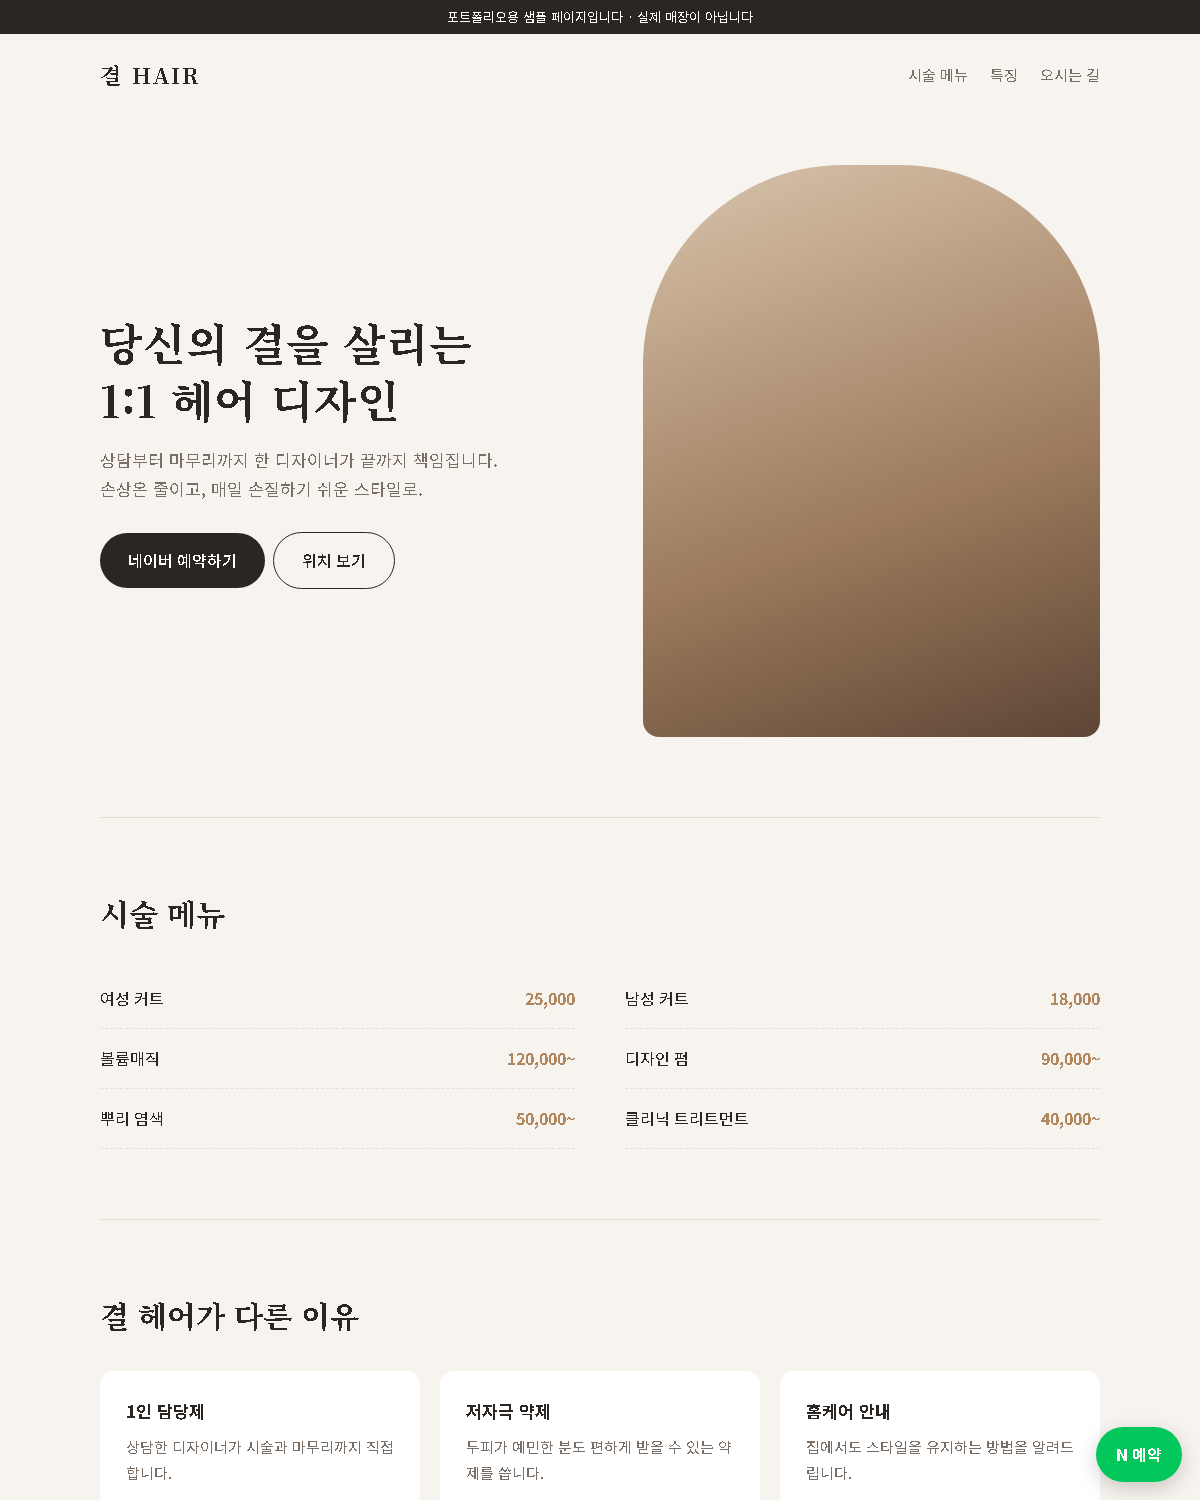
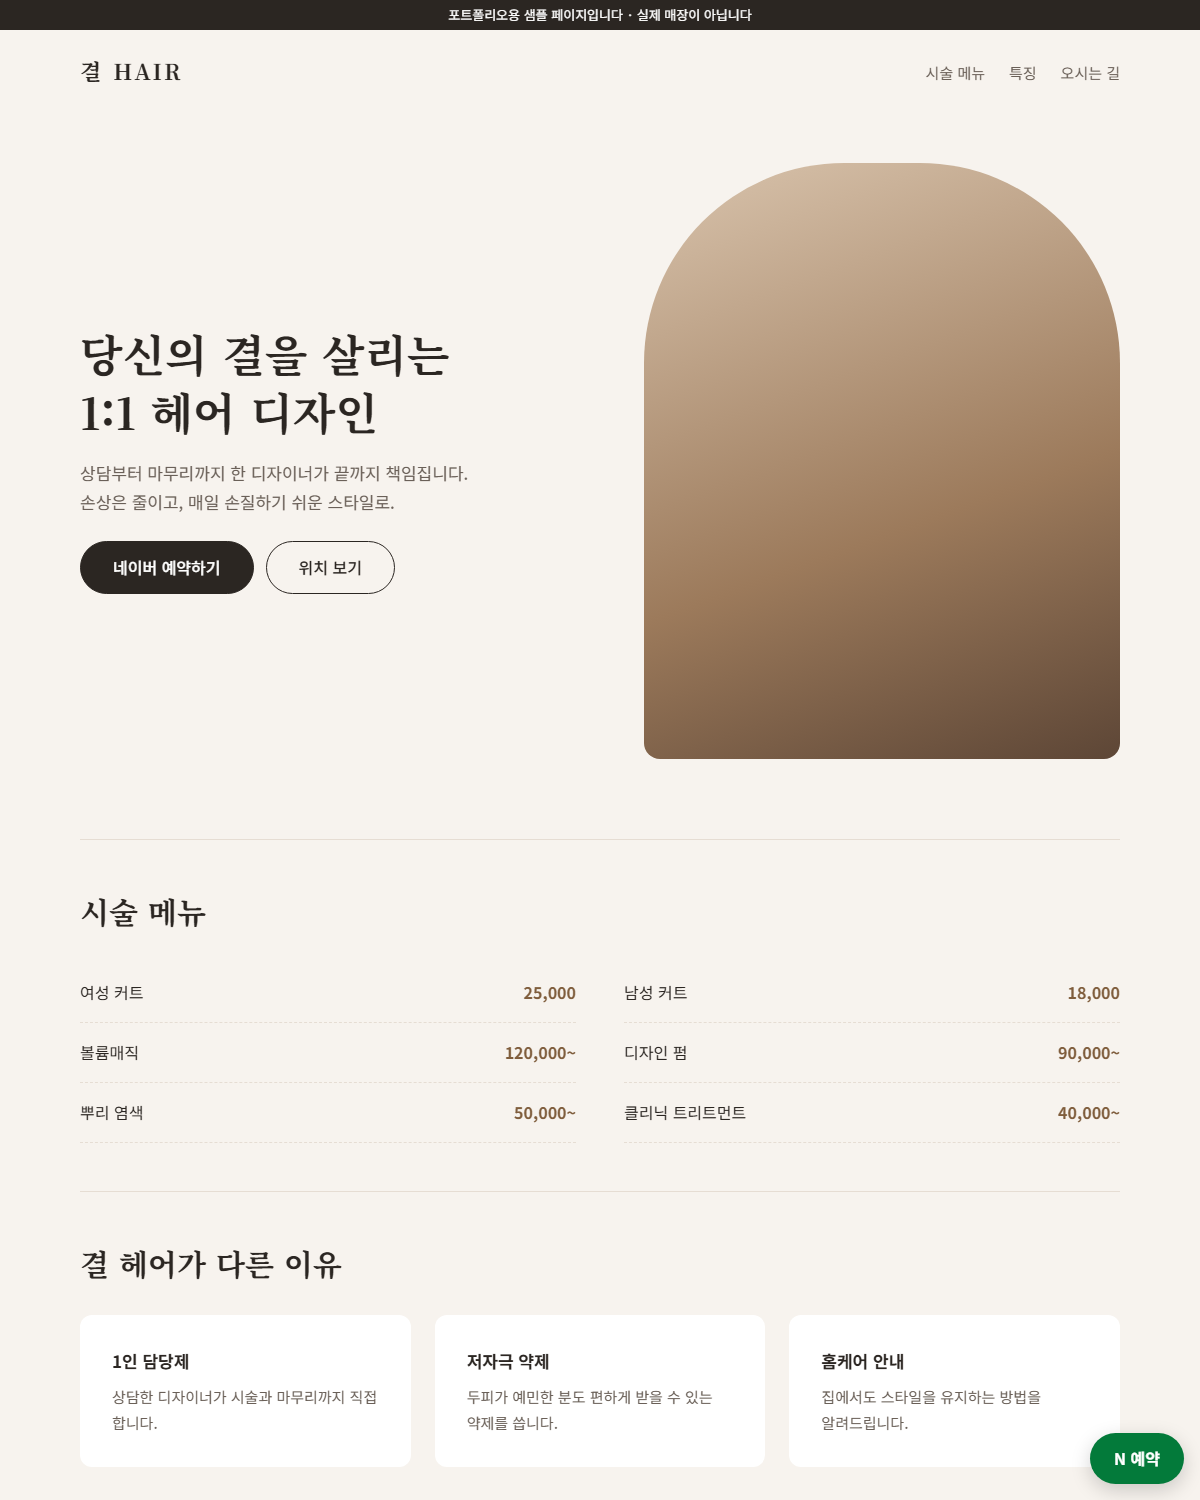
Retake portfolio screenshots at 375px/1200px and align hair button height

diff --git a/samples/hair.html b/samples/hair.html
@@ -3,6 +3,7 @@
 <head>
 <meta charset="utf-8">
 <meta name="viewport" content="width=device-width, initial-scale=1">
+<meta name="color-scheme" content="light">
 <title>결 헤어 | 샘플</title>
 <meta name="description" content="1인 미용실 결 헤어(가상 매장)의 소개 페이지 샘플입니다. 커트·펌·염색을 한 디자이너가 상담부터 마무리까지 맡는 과정을 담았습니다.">
 <meta property="og:type" content="website">
@@ -19,40 +20,47 @@
 <!-- 제목용 명조: 제목 글자 34자만 받음(text=). 제목 문구를 바꾸면 다시 만든다 -->
 <link href="https://fonts.googleapis.com/css2?family=Noto+Serif+KR:wght@700&text=1%3AAHIR%EA%B0%80%EA%B0%9D%EA%B2%B0%EA%B3%A0%EA%B8%B0%EA%B8%B8%EB%89%B4%EB%8A%94%EB%8B%A4%EB%8B%B9%EB%94%94%EB%A5%B8%EB%A6%AC%EB%A9%94%EC%82%B4%EC%88%A0%EC%8B%9C%EC%8B%A0%EC%96%B4%EC%98%A4%EC%9C%A0%EC%9D%84%EC%9D%98%EC%9D%B4%EC%9D%B8%EC%9E%90%ED%97%A4%ED%9B%84&display=swap" rel="stylesheet">
 <style>
-  :root{--bg:#f7f3ee;--ink:#2b2622;--muted:#7a6f66;--accent:#b0875f;--card:#fff;--line:#e6ddd3}
+  html{-webkit-text-size-adjust:100%;text-size-adjust:100%}
+  :root{--bg:#f7f3ee;--ink:#2b2622;--muted:#6A6058;--accent:#b0875f;--accent-text:#7F5D3C;--card:#fff;--line:#e6ddd3;
+    /* 여백 단계(플레이북 규칙 32): 8의 배수, 4·12는 반 단계 */
+    --sp-1:4px;--sp-2:8px;--sp-3:12px;--sp-4:16px;--sp-5:24px;--sp-6:32px;--sp-7:40px;--sp-8:48px;--sp-9:64px;--sp-10:80px;--sp-11:96px;
+    --gutter:var(--sp-4);--section:var(--sp-9);--title-gap:var(--sp-4);--stack:var(--sp-3);--card-pad:var(--sp-5);--card-gap:var(--sp-3)}
+  @media(min-width:861px){:root{--gutter:var(--sp-5);--section:var(--sp-11);--title-gap:var(--sp-5);--stack:var(--sp-4);--card-pad:var(--sp-6);--card-gap:var(--sp-5)}}
   *{box-sizing:border-box;margin:0;padding:0}
   body{background:var(--bg);color:var(--ink);font-family:'Noto Sans KR',-apple-system,'Apple SD Gothic Neo','Malgun Gothic',sans-serif;line-height:1.7;word-break:keep-all;overflow-wrap:break-word}
   a{color:inherit;text-decoration:none}
-  .wrap{max-width:1040px;margin:0 auto;padding:0 20px}
-  .demo{background:var(--ink);color:#fff;text-align:center;font-size:13px;padding:6px}
-  header{display:flex;justify-content:space-between;align-items:center;padding:22px 0}
+  .wrap{max-width:1088px;margin:0 auto;padding:0 var(--gutter)}
+  .demo{background:var(--ink);color:#fff;text-align:center;font-size:13px;padding:var(--sp-1) var(--sp-3)}
+  header{display:flex;justify-content:space-between;align-items:center;padding:var(--sp-5) 0}
   .logo{font-family:'Noto Serif KR','AppleMyungjo','Batang',serif;font-size:22px;font-weight:700;letter-spacing:2px}
-  nav a{margin-left:22px;font-size:15px;color:var(--muted)}
-  .hero{display:grid;grid-template-columns:1.1fr 1fr;gap:40px;align-items:center;padding:50px 0 80px}
-  .hero h1{font-family:'Noto Serif KR','AppleMyungjo','Batang',serif;font-size:44px;line-height:1.3;margin-bottom:18px}
-  .hero p{color:var(--muted);font-size:17px;margin-bottom:28px}
-  .btn{display:inline-block;background:var(--ink);color:#fff;padding:14px 28px;border-radius:40px;font-weight:500}
-  .btn.line{background:none;border:1px solid var(--ink);color:var(--ink);margin-left:8px}
+  nav a{margin-left:var(--sp-5);font-size:15px;color:var(--muted)}
+  .hero{display:grid;grid-template-columns:1.1fr 1fr;gap:var(--sp-7);align-items:center;padding:var(--sp-8) 0 var(--sp-10)}
+  .hero h1{font-family:'Noto Serif KR','AppleMyungjo','Batang',serif;font-size:44px;line-height:1.3;margin-bottom:var(--sp-4)}
+  .hero p{color:var(--muted);font-size:17px;margin-bottom:var(--sp-5)}
+  .acts{display:flex;flex-wrap:wrap;gap:var(--sp-3)}
+  .btn{display:inline-block;background:var(--ink);color:#fff;padding:var(--sp-3) var(--sp-6);border:1px solid var(--ink);border-radius:40px;font-weight:500;text-align:center}
+  .btn.line{background:none;border:1px solid var(--ink);color:var(--ink)}
   .visual{aspect-ratio:4/5;border-radius:200px 200px 16px 16px;background:linear-gradient(160deg,#d9c4ad,#9c7a5b 60%,#5d4636)}
-  section{padding:70px 0;border-top:1px solid var(--line)}
-  h2{font-family:'Noto Serif KR','AppleMyungjo','Batang',serif;font-size:30px;margin-bottom:30px}
-  .menu{display:grid;grid-template-columns:repeat(2,1fr);gap:0 50px}
-  .menu div{display:flex;justify-content:space-between;padding:16px 0;border-bottom:1px dashed var(--line)}
-  .menu span:last-child{color:var(--accent);font-weight:700}
-  .cards{display:grid;grid-template-columns:repeat(3,1fr);gap:20px}
-  .card{background:var(--card);padding:26px;border-radius:14px}
-  .card b{display:block;margin-bottom:8px;font-size:17px}
+  section{padding-block:calc(var(--section) / 2);border-top:1px solid var(--line)}
+  h2{font-family:'Noto Serif KR','AppleMyungjo','Batang',serif;font-size:30px;margin-bottom:var(--title-gap)}
+  .menu{display:grid;grid-template-columns:repeat(2,1fr);gap:0 var(--sp-8)}
+  .menu div{display:flex;justify-content:space-between;padding:var(--sp-4) 0;border-bottom:1px dashed var(--line)}
+  .menu span:last-child{color:var(--accent-text);font-weight:700}
+  .cards{display:grid;grid-template-columns:repeat(3,1fr);gap:var(--card-gap)}
+  .card{background:var(--card);padding:var(--card-pad);border-radius:12px}
+  .card b{display:block;margin-bottom:var(--sp-2);font-size:17px}
   .card p{color:var(--muted);font-size:15px}
   .review{font-size:17px}
-  .review small{display:block;margin-top:12px;color:var(--muted);font-size:13px}
-  .info{display:grid;grid-template-columns:1fr 1fr;gap:40px}
+  .review small{display:block;margin-top:var(--sp-3);color:var(--muted);font-size:13px}
+  .rv-note{margin:0 0 var(--sp-5);color:var(--muted);font-size:13px}
+  .info{display:grid;grid-template-columns:1fr 1fr;gap:var(--sp-7)}
   .map{background:repeating-linear-gradient(45deg,#e9e1d7 0 10px,#efe8df 10px 20px);border-radius:14px;min-height:220px;display:grid;place-items:center;color:var(--muted)}
-  footer{padding:30px 0;color:var(--muted);font-size:13px;text-align:center}
-  .float{position:fixed;right:18px;bottom:18px;background:#037a3a;color:#fff;padding:14px 20px;border-radius:40px;font-weight:700;box-shadow:0 6px 20px rgba(0,0,0,.18)}
+  footer{padding:var(--sp-6) 0;color:var(--muted);font-size:13px;text-align:center}
+  .float{position:fixed;right:var(--sp-4);bottom:var(--sp-4);background:#037a3a;color:#fff;padding:var(--sp-3) var(--sp-5);border-radius:40px;font-weight:700;box-shadow:0 6px 20px rgba(0,0,0,.18)}
   @media(max-width:760px){
-    nav{display:none}.hero{grid-template-columns:1fr;padding:20px 0 50px}.hero h1{font-size:32px}
+    nav{display:none}.hero{grid-template-columns:1fr;padding:var(--sp-5) 0 var(--sp-8)}.hero h1{font-size:32px}
     .visual{max-height:340px;aspect-ratio:auto;height:340px}
-    .menu,.cards,.info{grid-template-columns:1fr}.btn.line{margin:10px 0 0}
+    .menu,.cards,.info{grid-template-columns:1fr}.acts{flex-direction:column}
   }
 </style>
 </head>
@@ -69,7 +77,7 @@
     <div>
       <h1>당신의 결을 살리는<br>1:1 헤어 디자인</h1>
       <p>상담부터 마무리까지 한 디자이너가 끝까지 책임집니다.<br>손상은 줄이고, 매일 손질하기 쉬운 스타일로.</p>
-      <a class="btn" href="#">네이버 예약하기</a><a class="btn line" href="#info">위치 보기</a>
+      <div class="acts"><a class="btn" href="#">네이버 예약하기</a><a class="btn line" href="#info">위치 보기</a></div>
     </div>
     <div class="visual"></div>
   </div>
@@ -97,10 +105,11 @@
 
   <section>
     <h2>고객 후기</h2>
+    <p class="rv-note">포트폴리오용 가상 후기입니다. 실제 손님이 남긴 글이 아니며 디자인 예시를 위한 문구입니다.</p>
     <div class="cards">
-      <div class="card review">“처음으로 손질이 쉬운 펌을 했어요.”<small>네이버 예약 고객</small></div>
-      <div class="card review">“상담을 오래 해주셔서 믿음이 갔어요.”<small>네이버 예약 고객</small></div>
-      <div class="card review">“예민한 두피인데도 따갑지 않았어요.”<small>네이버 예약 고객</small></div>
+      <div class="card review">“처음으로 손질이 쉬운 펌을 했어요.”<small>가상 예시 · 실제 후기 아님</small></div>
+      <div class="card review">“상담을 오래 해주셔서 믿음이 갔어요.”<small>가상 예시 · 실제 후기 아님</small></div>
+      <div class="card review">“예민한 두피인데도 따갑지 않았어요.”<small>가상 예시 · 실제 후기 아님</small></div>
     </div>
   </section>
 
